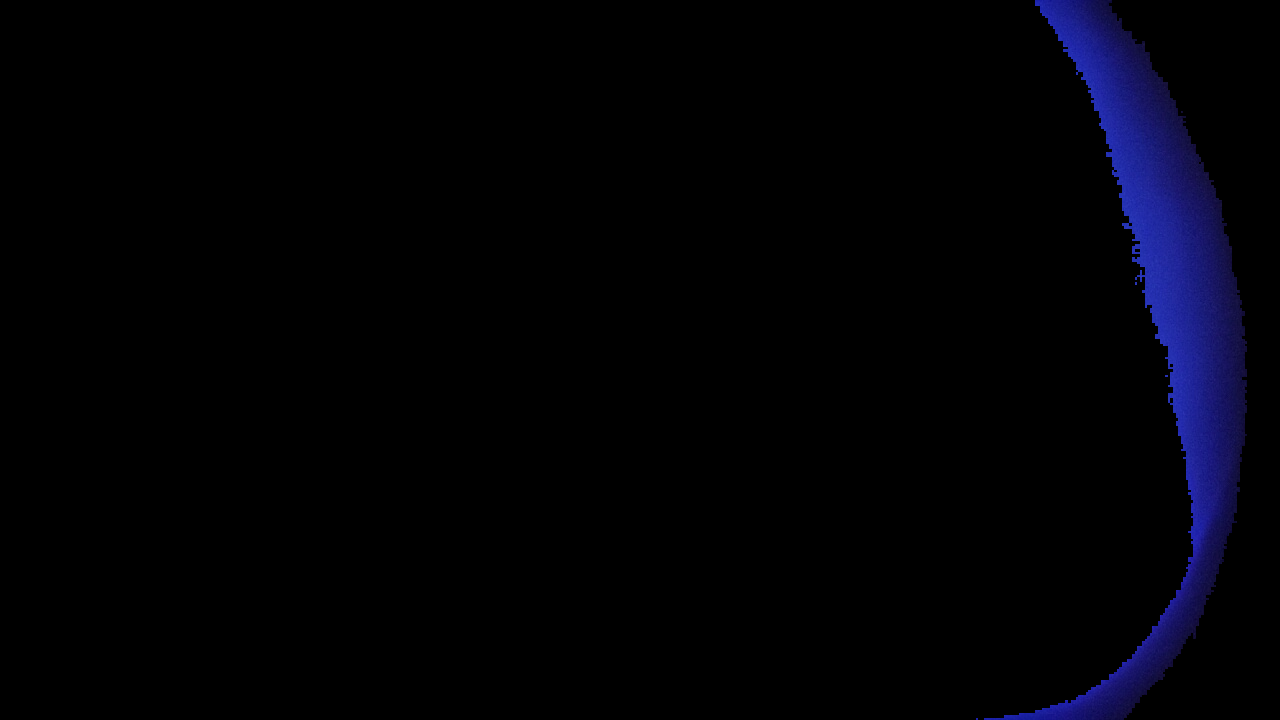
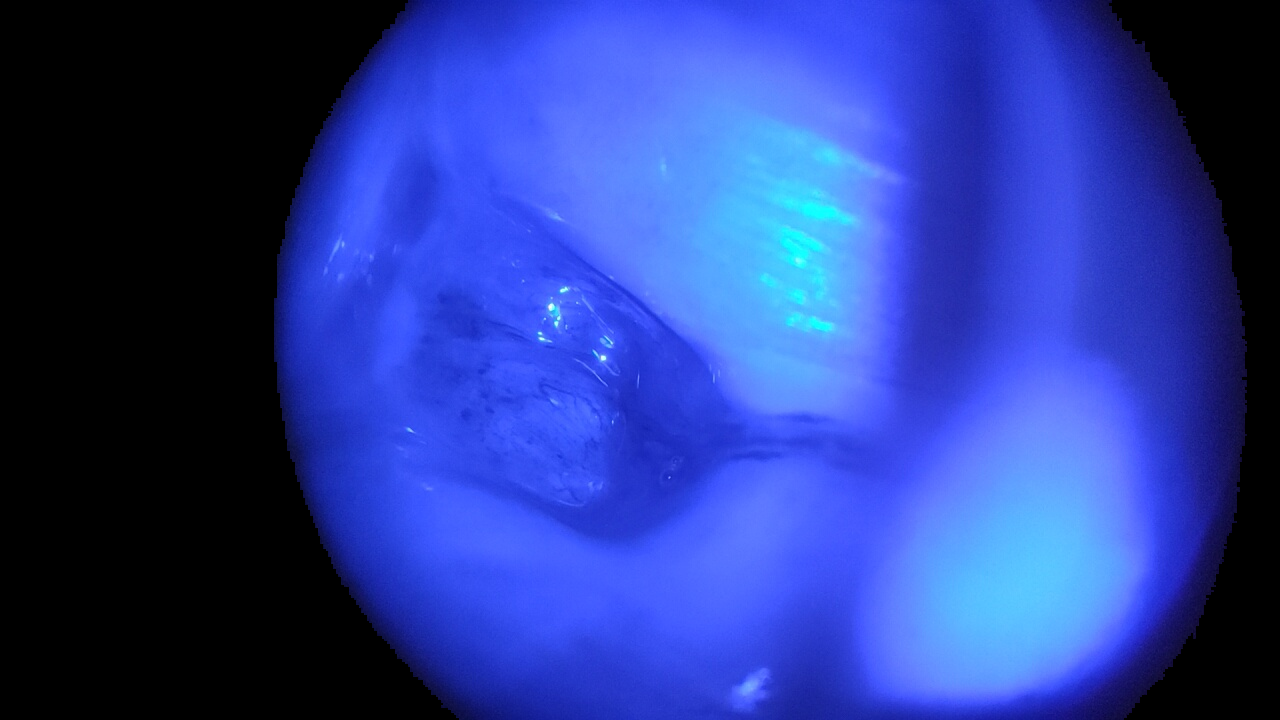
codigos

diff --git a/CNN_AI/detecciondeColores/segmentacionArea.py b/CNN_AI/detecciondeColores/segmentacionArea.py
@@ -158,11 +158,14 @@ mask_red2 = cv2.dilate(mask_red2, kernel,iterations=20)
 mask_pink2=cv2.dilate(mask_pink2,kernel,iterations=10)
 mask_rosa_palido=cv2.erode(mask_rosa_palido,kernel,iterations=10)
 
+lower_violeta_azul = np.array([95, 60, 60])
+upper_violeta_azul = np.array([135, 255, 255])
+mask_blue_violeta=cv2.inRange(hsv_img, lower_violeta_azul, upper_violeta_azul)
 
 # Sumar máscaras
 #mask_sum = mask_pink+mask_cyan #365nm
 #mask_sum =  mask_blue + mask_violeta3#405
-mask_sum= mask_violeta3+mask_
+mask_sum= mask_blue_violeta
 #mask_sum=mask_pink+mask_red2+mask_pink2+mask_carnita2+mask_pink2
 #mask_sum=mask_green
 mask_sum = np.clip(mask_sum, 0, 255).astype(np.uint8)
